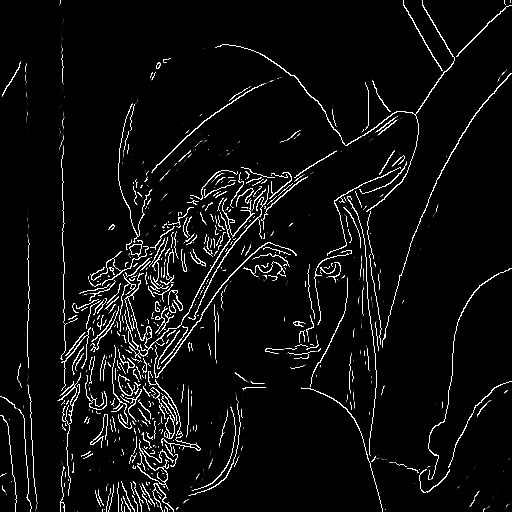
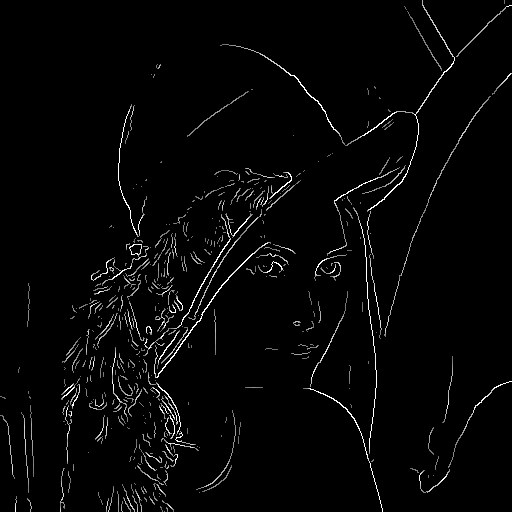
use gradient value of sobel to replace non-differentiable binaryzation of double threshold and avoid gradient explosion of sigmoid

diff --git a/canny.py b/canny.py
@@ -66,6 +66,7 @@ class CannyEdgeDetector(nn.Module):
             gaussian_sigma: float,
             high_threshold: float,
             low_threshold: float,
+            binary: bool = False
     ):
         """
         Canny边缘检测
@@ -73,6 +74,7 @@ class CannyEdgeDetector(nn.Module):
         :param gaussian_sigma: 高斯分布的标准差
         :param high_threshold: 强阈值
         :param low_threshold: 弱阈值
+        :param binary: 是否二值化，二值化后不可导
 
         Example::
 
@@ -88,27 +90,28 @@ class CannyEdgeDetector(nn.Module):
             >>> canny = CannyEdgeDetector(5, 1, 0.1, 0.25)
             >>> edge = canny(img)
             image None
-            img <ReflectionPad2DBackward0 object at 0x000001A60B8E3D00>
-            out <ConvolutionBackward0 object at 0x000001A60B8E3D00>
-            image <ConvolutionBackward0 object at 0x000001A60B8E3FA0>
-            padded_img <ReflectionPad2DBackward0 object at 0x000001A60B8E3FA0>
-            grad_x <ConvolutionBackward0 object at 0x000001A60B8E3FA0>
-            grad_y <ConvolutionBackward0 object at 0x000001A60B8E3FA0>
-            grad <SqrtBackward0 object at 0x000001A60B8E3FA0>
-            grad_direction <WhereBackward0 object at 0x000001A60B8E3FA0>
-            grad <SqrtBackward0 object at 0x000001A60B8E3FA0>
-            grad_direction <WhereBackward0 object at 0x000001A60B8E3FA0>
-            padded_grad <ReflectionPad2DBackward0 object at 0x000001A60B8E3FA0>
-            suppressed_grad <WhereBackward0 object at 0x000001A60B8E3FA0>
-            edges <WhereBackward0 object at 0x000001A60B8E3FA0>
-            max_value <MaxBackward1 object at 0x000001A60B8E3FA0>
-            min_value <MinBackward1 object at 0x000001A60B8E3FA0>
-            low_threshold <AddBackward0 object at 0x000001A60B8E3FA0>
-            high_threshold <AddBackward0 object at 0x000001A60B8E3FA0>
-            strong_mask <SigmoidBackward0 object at 0x000001A60B8E3FA0>
-            weak_mask <MulBackward0 object at 0x000001A60B8E3FA0>
-            has_strong_neighbor <ConvolutionBackward0 object at 0x000001A60B8E3FA0>
-            mask <AddBackward0 object at 0x000001A60B8E3FA0>
+            img <ReflectionPad2DBackward0 object at 0x00000244EE7EFF70>
+            out <ConvolutionBackward0 object at 0x00000244EE7EFF70>
+            image <ConvolutionBackward0 object at 0x00000244EE7EFF70>
+            padded_img <ReflectionPad2DBackward0 object at 0x00000244EE7EFF70>
+            grad_x <ConvolutionBackward0 object at 0x00000244EE7EFF70>
+            grad_y <ConvolutionBackward0 object at 0x00000244EE7EFF70>
+            grad <SqrtBackward0 object at 0x00000244EE7EFF70>
+            grad_direction <WhereBackward0 object at 0x00000244EE7EFF70>
+            grad <SqrtBackward0 object at 0x00000244EE7EFF70>
+            grad_direction <WhereBackward0 object at 0x00000244EE7EFF70>
+            padded_grad <ReflectionPad2DBackward0 object at 0x00000244EE7EFF70>
+            suppressed_grad <WhereBackward0 object at 0x00000244EE7EFF70>
+            edges <WhereBackward0 object at 0x00000244EE7EFF70>
+            max_value <MaxBackward1 object at 0x00000244EE7EFF70>
+            min_value <MinBackward1 object at 0x00000244EE7EFF70>
+            low_threshold <AddBackward0 object at 0x00000244EE7EFF70>
+            high_threshold <AddBackward0 object at 0x00000244EE7EFF70>
+            strong_mask None
+            weak_mask None
+            has_strong_neighbor None
+            mask None
+            filtered_edges <MulBackward0 object at 0x00000244EE7EFF70>
             >>> save_image(edge, 'edge.png')
         """
         super(CannyEdgeDetector, self).__init__()
@@ -120,6 +123,7 @@ class CannyEdgeDetector(nn.Module):
         self.gaussian_kernel_size = gaussian_kernel_size
         self.high_threshold = high_threshold
         self.low_threshold = low_threshold
+        self.binary = binary
         self.register_buffer('gaussian_kernel', gaussian_kernel(gaussian_kernel_size, gaussian_sigma))
         self.register_buffer('sobel_kernel_x', sobel_kernel()[0])
         self.register_buffer('sobel_kernel_y', sobel_kernel()[1])
@@ -200,15 +204,74 @@ class CannyEdgeDetector(nn.Module):
         low_threshold = min_value + (max_value - min_value) * self.low_threshold
         high_threshold = min_value + (max_value - min_value) * self.high_threshold
 
-        # 使用平滑函数替代二值化操作
-        # *100后更接近硬二值化
-        strong_mask = torch.sigmoid(100 * (edges - high_threshold))  # 强边缘
-        weak_mask = torch.sigmoid(100 * (edges - low_threshold)) * (1 - strong_mask)  # 弱边缘
+        strong_mask = torch.where(edges >= high_threshold, torch.ones_like(edges), torch.zeros_like(edges))
+        weak_mask = torch.where(torch.logical_and(edges >= low_threshold, edges < high_threshold), torch.ones_like(edges), torch.zeros_like(edges))
 
-        # 统计每个像素在其邻域内是否存在强边缘,如果邻域内有强边缘像素,则该值较大,否则,该值较小
         has_strong_neighbor = f.conv2d(f.pad(strong_mask, pad=(1, 1, 1, 1), mode='reflect'), self.hysteresis_kernel)
 
-        # 最终的平滑边缘掩码
-        mask = strong_mask + (weak_mask * torch.sigmoid(100 * (has_strong_neighbor - 0.5)))
+        mask = torch.where(torch.logical_or(strong_mask, torch.logical_and(weak_mask, has_strong_neighbor)), torch.ones_like(strong_mask), torch.zeros_like(strong_mask))
+
+        filtered_edges = edges * mask.detach()
+
         _watch_grad_fn(locals())
-        return mask
+        return filtered_edges
+
+
+def canny_edge_detector(
+        img: torch.Tensor,
+        gaussian_kernel_size: int,
+        gaussian_sigma: float,
+        high_threshold: float,
+        low_threshold: float,
+):
+    """
+    Canny边缘检测
+    :param img: 图片, dim=4
+    :param gaussian_kernel_size: 高斯平滑卷积核大小
+    :param gaussian_sigma: 高斯分布的标准差
+    :param high_threshold: 强阈值
+    :param low_threshold: 弱阈值
+
+    Example::
+
+        >>> import torch
+        >>> import torch.nn.functional as f
+        >>> from PIL import Image
+        >>> from torchvision.utils import save_image
+        >>> from torchvision.transforms.functional import to_tensor
+        >>> from canny import canny_edge_detector
+        >>> path =  'Lena.png'
+        >>> img = Image.open(path).convert('L')
+        >>> img = to_tensor(img).unsqueeze(0)
+        >>> edge = canny_edge_detector(img, 5, 1, 0.1, 0.25)
+        image None
+        img <ReflectionPad2DBackward0 object at 0x00000244EE7EFF70>
+        out <ConvolutionBackward0 object at 0x00000244EE7EFF70>
+        image <ConvolutionBackward0 object at 0x00000244EE7EFF70>
+        padded_img <ReflectionPad2DBackward0 object at 0x00000244EE7EFF70>
+        grad_x <ConvolutionBackward0 object at 0x00000244EE7EFF70>
+        grad_y <ConvolutionBackward0 object at 0x00000244EE7EFF70>
+        grad <SqrtBackward0 object at 0x00000244EE7EFF70>
+        grad_direction <WhereBackward0 object at 0x00000244EE7EFF70>
+        grad <SqrtBackward0 object at 0x00000244EE7EFF70>
+        grad_direction <WhereBackward0 object at 0x00000244EE7EFF70>
+        padded_grad <ReflectionPad2DBackward0 object at 0x00000244EE7EFF70>
+        suppressed_grad <WhereBackward0 object at 0x00000244EE7EFF70>
+        edges <WhereBackward0 object at 0x00000244EE7EFF70>
+        max_value <MaxBackward1 object at 0x00000244EE7EFF70>
+        min_value <MinBackward1 object at 0x00000244EE7EFF70>
+        low_threshold <AddBackward0 object at 0x00000244EE7EFF70>
+        high_threshold <AddBackward0 object at 0x00000244EE7EFF70>
+        strong_mask None
+        weak_mask None
+        has_strong_neighbor None
+        mask None
+        filtered_edges <MulBackward0 object at 0x00000244EE7EFF70>
+        >>> save_image(edge, 'edge.png')
+    """
+    canny = CannyEdgeDetector(gaussian_kernel_size, gaussian_sigma, high_threshold, low_threshold).to(img.device)
+    return canny(img)
+
+
+def binaryzation_edge(edges: torch.Tensor) -> torch.Tensor:
+    return torch.sign(edges).abs()

diff --git a/example.py b/example.py
@@ -11,18 +11,21 @@ from PIL import Image
 from torchvision.transforms.functional import to_tensor
 from torchvision.utils import save_image
 
-from canny import CannyEdgeDetector
+from canny import CannyEdgeDetector, canny_edge_detector, binaryzation_edge
 
 
 def main():
     path = r"Lena.png"
     img = Image.open(path).convert('L')
-    img = to_tensor(img).unsqueeze(0).to('cuda')
+    img = to_tensor(img).unsqueeze(0).to('cpu')
     img.requires_grad = True
-    canny = CannyEdgeDetector(5, 1, 0.15, 0.3).to('cuda')
-    edges: torch.Tensor = canny(img)
+    # canny = CannyEdgeDetector(5, 1, 0.15, 0.3).to('cuda')
+    # edges: torch.Tensor = canny(img)
+    edges: torch.Tensor = canny_edge_detector(img, 5, 1, 0.23, 0.3)
+    save_image(edges, fp='./edge.png')
     edges.sum().backward()
-    save_image(edges, fp='edge.png')
+    binary_edges = binaryzation_edge(edges)  # non-differentiable
+    save_image(binary_edges, fp='./binary_edge.png')
 
 
 if __name__ == '__main__':

diff --git a/README.md b/README.md
@@ -1,14 +1,30 @@
 # 可导的Canny边缘检测
+
 # Differentiable Canny Edge Detector
 
-### Example:  
+### Example:
 
-<p align="center">
-  <img src="Lena.png" width="49%"  alt=""/>
-  <img src="edge.png" width="49%"  alt=""/>
-</p>
+<div style="width: 98%; margin: auto;">
+    <!-- 前两张图片并排 -->
+    <div style="display: flex; width: 100%; justify-content: center;">
+        <div style="width: 50%; text-align: center;">
+            <b>Original</b>
+            <img src="Lena.png" alt="Lena" style="width: 100%; height: auto;">
+        </div>
+        <div style="width: 50%; text-align: center;">
+            <b>Differentiable</b>
+            <img src="edge.png" alt="Edge" style="width: 100%; height: auto;">
+        </div>
+    </div>
+    <div style="width: 100%; text-align: center; margin-top: -6px; display: flex; flex-direction: column; justify-content: center; align-items: center;">
+        <img src="binary_edge.png" alt="Binary Edge" style="width: 100%; height: auto;">
+        <b>Binary</b>
+    </div>
+</div>
 
-### Usage:  
+
+
+### Usage:
 
 ```python
 import torch
@@ -24,10 +40,38 @@ def main():
     img = Image.open(path).convert('L')
     img = to_tensor(img).unsqueeze(0).to('cuda')
     img.requires_grad = True
-    canny = CannyEdgeDetector(5, 1, 0.15, 0.3).to('cuda')
+    canny = CannyEdgeDetector(5, 1, 0.23, 0.3).to('cuda')
     edges: torch.Tensor = canny(img)
     edges.sum().backward()
     save_image(edges, fp='edge.png')
+
+
+if __name__ == '__main__':
+    main()
+```
+
+to see **binary** edges:
+
+```python
+import torch
+from PIL import Image
+from torchvision.transforms.functional import to_tensor
+from torchvision.utils import save_image
+
+from canny import CannyEdgeDetector, binaryzation_edge
+
+
+def main():
+    path = r"Lena.png"
+    img = Image.open(path).convert('L')
+    img = to_tensor(img).unsqueeze(0).to('cuda')
+    img.requires_grad = True
+    canny = CannyEdgeDetector(5, 1, 0.23, 0.3).to('cuda')
+    edges: torch.Tensor = canny(img)
+    edges.sum().backward()
+    save_image(edges, fp='edge.png')
+    binary_edges = binaryzation_edge(edges)
+    save_image(binary_edges, 'binary_edge.png')
 
 
 if __name__ == '__main__':
